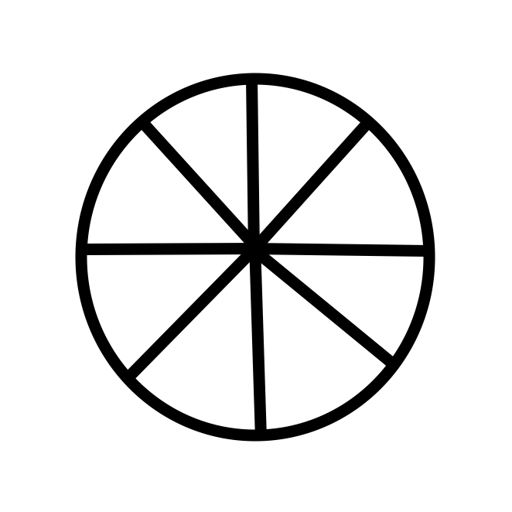
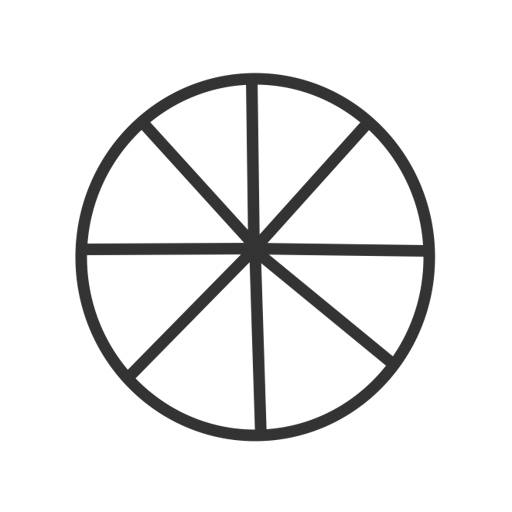
Add files via upload

Changed region(s): [[0.125, 0.125, 0.875, 0.875]]

diff --git a/index.html b/index.html
@@ -214,7 +214,7 @@ input[type="text"]:focus {
     flex-direction: column;
     justify-content: center;
     font-weight: 600;
-    color: black;
+    color: #333333;
    }    
         .rls-container {
             font-size: 7px;
@@ -223,20 +223,20 @@ input[type="text"]:focus {
             font-weight: 600;
     flex-direction: column;
     justify-content: center;
-    color: black;
+    color: #333333;
    }
         .label1-container {
             font-size: 7px;
             font-family: 'Roboto', sans-serif;
             font-weight: 600;
             -webkit-text-stroke-color: black;
-            color: black;
+            color: #333333;
         }
         .r1-container {
             font-size: 7px;
             font-weight: 600;
             font-family: 'Roboto', sans-serif;
-            color: black;
+            color: #333333;
         }
 
 #deleteButton {
